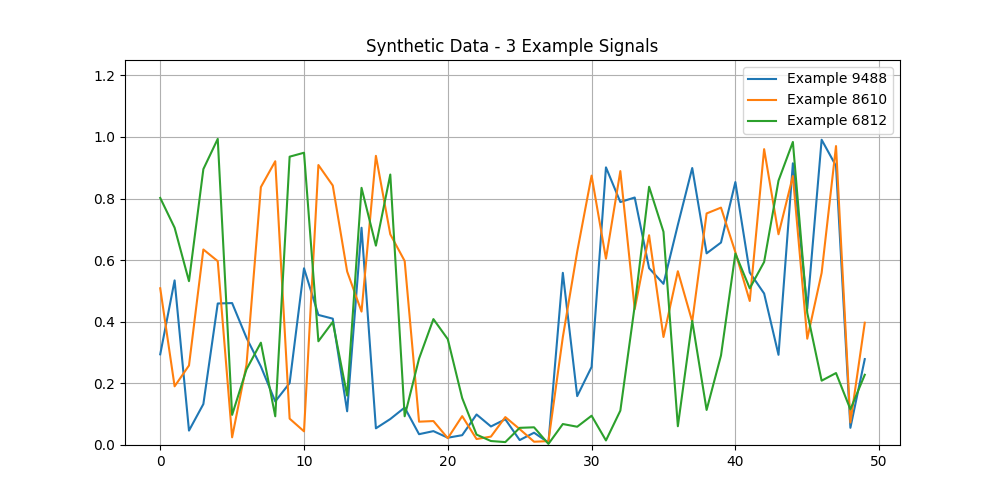
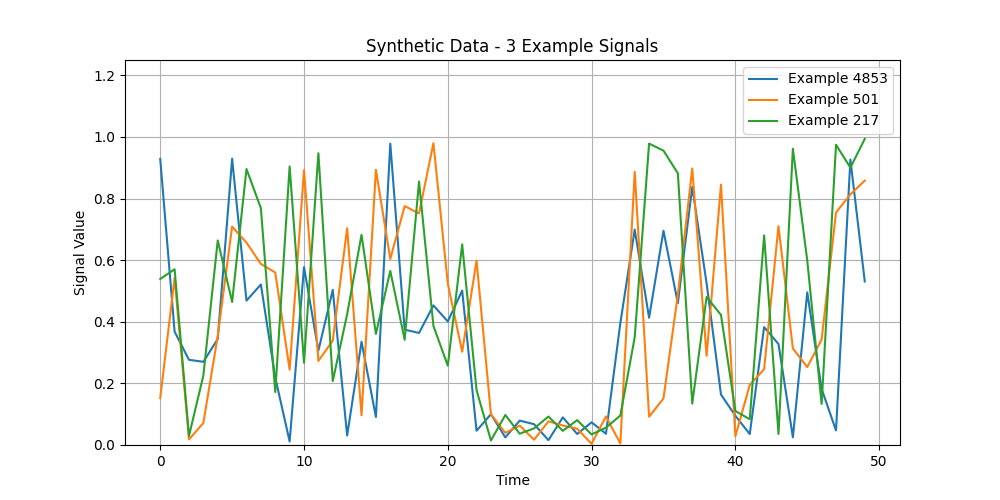
section 4 still not working... gotta work with what we have

diff --git a/lstm_ae_snp500.py b/lstm_ae_snp500.py
@@ -22,12 +22,14 @@ def create_scaled_stocks_dataframe():
     df = data.sort_values(['symbol', 'date']).reset_index(drop=True)
     df = df.dropna()
     df_scaled = df.copy()
+    scalers = {}
 
     for symbol, group in df.groupby('symbol'):
         scaler = MinMaxScaler()
         df_scaled.loc[group.index, features] = scaler.fit_transform(group[features])
+        scalers[symbol] = scaler
 
-    return df_scaled, scaler
+    return df_scaled, scalers
 
 def create_sequences_for_symbol(symbol_data, seq_length):
     sequences = []
@@ -136,7 +138,7 @@ def section_2(args):
     hidden_size = args.hidden_size
     epochs = args.epochs
 
-    df_scaled, scaler = create_scaled_stocks_dataframe()
+    df_scaled, scalers = create_scaled_stocks_dataframe()
     all_sequences, all_symbols, all_dates = create_sequences(df_scaled, seq_length)
 
     dataset = StockDataset(all_sequences)
@@ -212,8 +214,8 @@ def section_2(args):
 
         reconstructed = reconstructed.cpu().numpy()
 
-        original = scaler.inverse_transform(original_sequences.reshape(-1, len(features)))
-        reconstructed = scaler.inverse_transform(reconstructed.reshape(-1, len(features)))
+        original = scalers[symbol].inverse_transform(original_sequences.reshape(-1, len(features)))
+        reconstructed = scalers[symbol].inverse_transform(reconstructed.reshape(-1, len(features)))
 
         original = original.reshape(-1, seq_length, len(features))
         reconstructed = reconstructed.reshape(-1, seq_length, len(features))
@@ -251,9 +253,8 @@ def section_3(args):
     hidden_size = args.hidden_size # 64
     epochs = args.epochs # 50
     batch_size = args.batch_size # 64
-    learning_rate = args.learning_rate # 1e-3
 
-    df_scaled, scaler = create_scaled_stocks_dataframe()
+    df_scaled, scalers = create_scaled_stocks_dataframe()
     all_sequences, all_targets, all_symbols, all_dates = create_sequences_with_targets(df_scaled, seq_length)
 
     device = torch.device('cuda' if torch.cuda.is_available() else 'cpu')
@@ -397,8 +398,9 @@ def multi_step_predict(model, input_sequence, half_T, device):
 
     with torch.no_grad():
         for i in range(half_T):
-            current_input = input_sequence[:, i:i + half_T, :].to(device)
-            predicted = model(current_input)
+            current_input = input_sequence.unsqueeze(0)
+            current_input = current_input[:, i:i + half_T, :].to(device)
+            _, predicted = model(current_input)
             predictions = torch.cat((predictions, predicted), dim = 1)
 
     return predictions
@@ -410,52 +412,51 @@ def one_step_predict(model, input_sequence, half_T, device):
     
     with torch.no_grad():
         for i in range(half_T):
-            current_input = input_sequence[:, i + half_T, :].to(device)
-            prediction = model(current_input.to(device))  # Shape: (1, input_size)
+            current_input = input_sequence.unsqueeze(0)
+            current_input = current_input[:, i - 1 + half_T, :].to(device)
+            _, prediction = model(current_input.unsqueeze(0).to(device))  # Shape: (1, input_size)
             predictions = torch.cat((predictions, prediction), dim = 1)
 
     return predictions
 
 
 def section_4(args):
+    args.seq_length = 200
+
     seq_length = args.seq_length
     input_size = args.input_size
     hidden_size = args.hidden_size  # 64
 
-    df_scaled, scaler = create_scaled_stocks_dataframe()
-    all_sequences, all_targets, all_symbols, all_dates = create_sequences_with_targets(df_scaled, seq_length)
-
+    df_scaled, scalers = create_scaled_stocks_dataframe()
     device = torch.device('cuda' if torch.cuda.is_available() else 'cpu')
 
     model = LSTMAutoencoderPredictor(input_size = input_size, hidden_size = hidden_size)
     model.load_state_dict(torch.load('output/sp500/models/best_model_section_3.pth', weights_only=True))
 
-    dataset = StockDatasetPredictor(all_sequences, all_targets)
-    data_loader = DataLoader(dataset, batch_size=1, shuffle=True)
+    selected_symbols = ["AAPL", "MSFT", "AMZN", "SLG", "GOOGL"]
+    print(f'Selected Symbols: {selected_symbols}')
 
-    for batch in data_loader:
-        sequences, targets = batch
-        sequences = sequences.to(device)
+    for symbol in selected_symbols:
+        symbol_data = df_scaled[df_scaled['symbol'] == symbol].reset_index(drop=True)
+        sequences = create_sequences_for_symbol(symbol_data, seq_length)
+        sequences_tensor = torch.tensor(sequences, dtype=torch.float32).to(device)
 
-        T = sequences.size(1)
+        T = seq_length
         half_T = T // 2
+        input_tensor = sequences_tensor[0, :T, :].to(device)
+        actual_targets = sequences_tensor[0, half_T:, :]
+        multi_step_predicted = multi_step_predict(model, input_tensor, half_T, device=device)
+        one_step_predicted = one_step_predict(model, input_tensor, half_T, device=device)
 
-        actual_targets = sequences[:, half_T:, :]
-        multi_step_predicted = multi_step_predict(model, sequences, half_T, device=device)
-        one_step_predicted = one_step_predict(model, sequences, half_T, device=device)
-
-        scaler = MinMaxScaler()
-        scaler.fit(df_scaled[['open', 'high', 'low', 'close', 'volume']])
-
-        actual_targets_rescaled = scaler.inverse_transform(
+        actual_targets_rescaled = scalers[symbol].inverse_transform(
             actual_targets.cpu().numpy().reshape(-1, len(features))).reshape(-1, len(features))
-        multi_step_predicted_rescaled = scaler.inverse_transform(
+        multi_step_predicted_rescaled = scalers[symbol].inverse_transform(
             multi_step_predicted.cpu().numpy().reshape(-1, len(features))).reshape(-1, len(features))
-        one_step_predicted_rescaled = scaler.inverse_transform(
+        one_step_predicted_rescaled = scalers[symbol].inverse_transform(
             one_step_predicted.cpu().numpy().reshape(-1, len(features))).reshape(-1, len(features))
 
 
-        close_idx = features.index('close')
+        close_idx = features.index('high')
         actual_close = actual_targets_rescaled[:, close_idx]
         multi_step_close = multi_step_predicted_rescaled[:, close_idx]
         one_step_close = one_step_predicted_rescaled[:, close_idx]
@@ -463,28 +464,26 @@ def section_4(args):
         plt.figure(figsize=(10, 6))
         time_steps = np.arange(1, len(actual_close) + 1)
 
-        plt.plot(time_steps, actual_close, label='Actual Close Price', color='blue', marker='o')
-        plt.plot(time_steps, multi_step_close, label='Multi-Step Prediction', color='orange', marker='x')
-        plt.plot(time_steps, one_step_close, label='One-Step Prediction', color='green', marker='s')
+        plt.plot(time_steps, actual_close, label='Actual Close Price', color='blue')
+        plt.plot(time_steps, multi_step_close, label='Multi-Step Prediction', color='orange')
+        plt.plot(time_steps, one_step_close, label='One-Step Prediction', color='green')
 
-        plt.title('Comparison of Close Prices: Actual vs. Predictions')
+        plt.title(f'Comparison of Close Prices: Actual vs. Predictions For {symbol}')
         plt.xlabel('Time Step')
         plt.ylabel('Close Price')
         plt.legend()
         plt.grid(True)
-        plt.savefig('output/sp500/section4/comparison_of_actual_close_prices.png')
+        plt.savefig(f'output/sp500/section4/comparison_of_actual_close_prices-{symbol}.png')
         plt.show()
-
-        break
 
 
 if __name__ == '__main__':
     parser = argparse.ArgumentParser()
     parser.add_argument("--input-size", type=int, default=5)
     parser.add_argument("--hidden-size", type=int, default=64)
-    parser.add_argument("--learning-rate", type=float, default=1e-2)
+    parser.add_argument("--learning-rate", type=float, default=1e-3)
     parser.add_argument("--batch-size", type=int, default=64)
-    parser.add_argument("--gradient-clipping", type=float, default=0.5)
+    parser.add_argument("--gradient-clipping", type=float, default=1.0)
     parser.add_argument("--epochs", type=int, default=50)
     parser.add_argument("--optimizer", type=str, default="adam")
     parser.add_argument("--seq-length", type=int, default=30)

diff --git a/lstm_ae_toy.py b/lstm_ae_toy.py
@@ -136,33 +136,34 @@ def section_1b():
     # After an over-night run, we got the best results using hidden_size = 64, learning_rate = 0.01, gradient_clipping = 0.5
 
 if __name__ == '__main__':
-    parser = argparse.ArgumentParser()
-    parser.add_argument("--input-size", type=int, default=1)
-    parser.add_argument("--hidden-size", type = int, default = 32)
-    parser.add_argument("--learning-rate", type=float, default=1e-2)
-    parser.add_argument("--batch-size", type=int, default=128)
-    parser.add_argument("--gradient-clipping", type=float, default=0.5)
-    parser.add_argument("--epochs", type=int, default=150)
-    parser.add_argument("--optimizer", type=str, default="adam")
-
-    args = parser.parse_args()
-
-    n_seq = 10000
-    seq_len = 50
-    data = generate_synthetic_data(n_seq = n_seq, seq_len = seq_len)
-
-    training_data, validation_data, test_data = split_data_to_train_validation_test(data)
-    device = torch.device("cuda" if torch.cuda.is_available() else "cpu")
-
-    training_tensor = torch.from_numpy(training_data).float().unsqueeze(-1).to(device)
-    validation_tensor = torch.from_numpy(validation_data).float().unsqueeze(-1).to(device)
-    args_dict = vars(args)
-    model, _ =train_and_evaluate_lstm_ae(training_tensor, validation_tensor, device, args_dict)
-
-    validation_loader = DataLoader(TensorDataset(validation_tensor), batch_size=1, shuffle=True)
-    signal, = next(iter(validation_loader))
-    reconstructed_signal = reconstruct_input(model, signal)
-
-    plot_original_vs_reconstructed(signal[0].cpu().numpy(), reconstructed_signal[0].cpu().numpy())
-
+    section_1a()
+    # parser = argparse.ArgumentParser()
+    # parser.add_argument("--input-size", type=int, default=1)
+    # parser.add_argument("--hidden-size", type = int, default = 32)
+    # parser.add_argument("--learning-rate", type=float, default=1e-2)
+    # parser.add_argument("--batch-size", type=int, default=128)
+    # parser.add_argument("--gradient-clipping", type=float, default=0.5)
+    # parser.add_argument("--epochs", type=int, default=150)
+    # parser.add_argument("--optimizer", type=str, default="adam")
+    #
+    # args = parser.parse_args()
+    #
+    # n_seq = 10000
+    # seq_len = 50
+    # data = generate_synthetic_data(n_seq = n_seq, seq_len = seq_len)
+    #
+    # training_data, validation_data, test_data = split_data_to_train_validation_test(data)
+    # device = torch.device("cuda" if torch.cuda.is_available() else "cpu")
+    #
+    # training_tensor = torch.from_numpy(training_data).float().unsqueeze(-1).to(device)
+    # validation_tensor = torch.from_numpy(validation_data).float().unsqueeze(-1).to(device)
+    # args_dict = vars(args)
+    # model, _ =train_and_evaluate_lstm_ae(training_tensor, validation_tensor, device, args_dict)
+    #
+    # validation_loader = DataLoader(TensorDataset(validation_tensor), batch_size=1, shuffle=True)
+    # signal, = next(iter(validation_loader))
+    # reconstructed_signal = reconstruct_input(model, signal)
+    #
+    # plot_original_vs_reconstructed(signal[0].cpu().numpy(), reconstructed_signal[0].cpu().numpy())
+    #
 

diff --git a/lstm_ae_mnist.py b/lstm_ae_mnist.py
@@ -186,9 +186,9 @@ def generate_accuracy_and_loss_plot(epochs, loss_per_epoch, test_accuracy_per_ep
 
 def section_1(args):
     transform = transforms.Compose([transforms.ToTensor()])
-    model, _, _ = train_and_evaluate_lstm_ae_mnist(args, model_name="lstm_autoencoder_mnist", should_save_model=False)
-    # model = LSTMAutoEncoder(args.input_size, args.hidden_size)
-    # model.load_state_dict(torch.load("output/mnist/models/lstm_autoencoder_mnist.pth", weights_only=True))
+    # model, _, _ = train_and_evaluate_lstm_ae_mnist(args, model_name="lstm_autoencoder_mnist", should_save_model=False)
+    model = LSTMAutoEncoder(args.input_size, args.hidden_size)
+    model.load_state_dict(torch.load("output/mnist/models/lstm_autoencoder_mnist.pth", weights_only=True))
 
     test_set = datasets.MNIST(root='./data', train=False, transform=transform, download=True)
     test_loader = DataLoader(test_set, batch_size=args.batch_size, shuffle=True)

diff --git a/synthetic_data_utils.py b/synthetic_data_utils.py
@@ -22,6 +22,8 @@ def plot_examples(data: np.ndarray):
     for i in indices:
         plt.plot(data[i], label=f"Example {i}")
     plt.legend(loc="upper right")
+    plt.xlabel("Time")
+    plt.ylabel("Signal Value")
     plt.title(f"Synthetic Data - {num_samples_to_display} Example Signals")
     plt.savefig("./output/synthetic_data/section_1/example.png")
     plt.show()

diff --git a/lstm_autoencoder_predictor.py b/lstm_autoencoder_predictor.py
@@ -31,4 +31,4 @@ class LSTMAutoencoderPredictor(nn.Module):
 
         prediction = self.predictor_linear(decoder_output)
         prediction = prediction[:, -1, :].unsqueeze(1)
-        return prediction
+        return reconstruction, prediction
